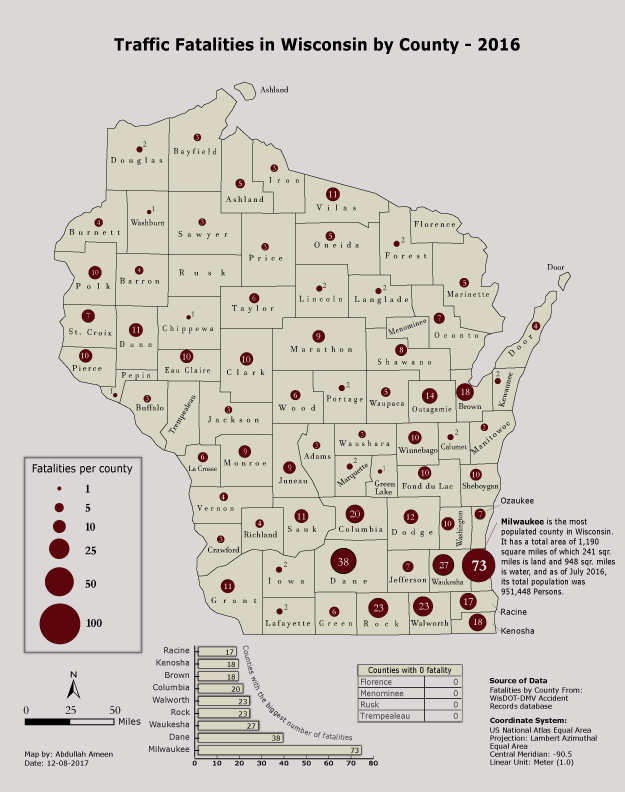
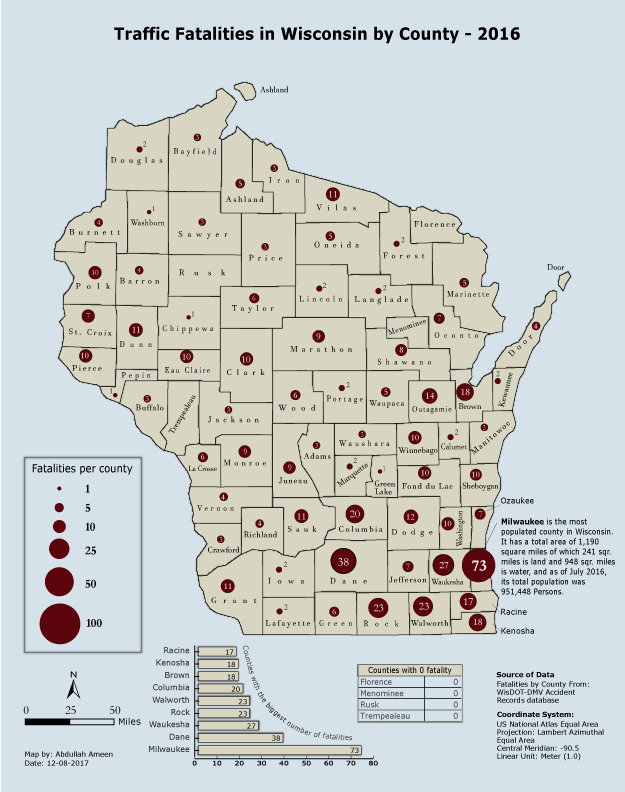
update

diff --git a/trafficfatalities.html b/trafficfatalities.html
@@ -40,10 +40,7 @@
             Below proportional symbol map represents the traffic fatalities in Wisconsin by county in 2016.
             Proportional symbol maps are used to show relative differences in quantities among the features or an attribute field of a special dataset. <br>
             For more detail on proportional symbol map, please <a href=" https://doc.arcgis.com/en/insights/create/proportional-symbol-maps.htm" target="_blank">click here</a>.<br><br>
-            Data source: <a href="https://wisconsindot.gov/Pages/about-wisdot/newsroom/statistics/countyfatality.aspx" target="_blank">WisDOT Crash Records database</a><br><br> 
-
-            <small><b>Note:</b> Unfortunately, some of the smartphones don't display the symbols on the map because it's a Scalable Vector Graphics (SVG) file, but you can see a PDF version of it by clicking on the map.</small>
-
+            Data source: <a href="https://wisconsindot.gov/Pages/about-wisdot/newsroom/statistics/countyfatality.aspx" target="_blank">WisDOT Crash Records database</a>
           </p>
         </div>
 
@@ -54,7 +51,7 @@
         <div class="col-lg-12">
         <div class="thumbnail">
           <a href="contents/Proportional Symbole Map.pdf">
-             <img src="contents/Proportional Symbole Map_Trafic Fatality.svg" alt="Proportional Symbole Map" style="width:100%;">
+             <img src="contents/Proportional Symbole Map_Trafic Fatality.png" alt="Proportional Symbole Map" style="width:100%;">
          </a>
         </div>
 

diff --git a/RotatingEarth.html b/RotatingEarth.html
@@ -40,10 +40,20 @@
         from { background-position-x: 0px; }
         to { background-position-x: 3900px; }
         }
+        img:hover{
+        box-shadow: 0.5px 1px 1px 2px yellow;
+        border-radius: 50%;
+        background: lightblue;
+        }
+
     </style>
   </head>
 
   <body id="backrondimage">
+
+      <div class="col-lg-12"><p></p>
+        <a href="index.html"><img src="contents/Arrow1.png" style="width:65px;height:64px;border-radius:50%; float: left;"></a>
+      </div>
       <div id="rotatingEarth"></div>
   </body>
 </html>
